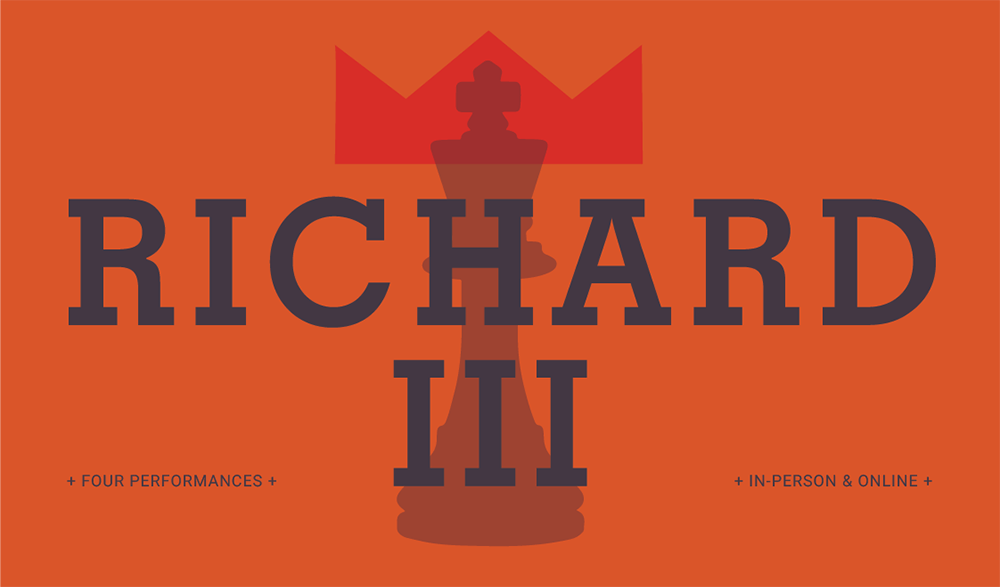
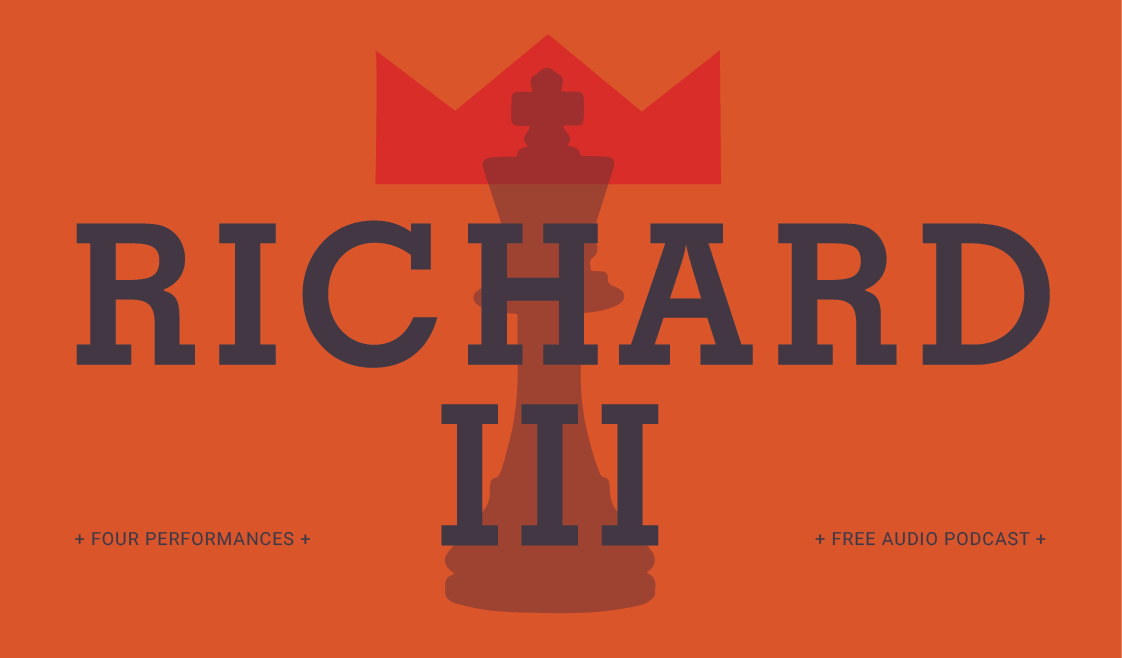
updated to only feature audio only podcast

diff --git a/index.html b/index.html
@@ -39,35 +39,24 @@
     <div class="container">
       <section class="schedule">
         <div class="row">
-            <h1 class="overview six offset-by-three columns">We will be presenting William Shakespeare's Richard III in four parts, both live in-person and online. See the calendar below for live show dates as well as links to stream them online when they're available.
+            <h1 class="overview six offset-by-three columns">We will be presenting William Shakespeare's Richard III as an audio podcast in four parts. See below for the times that they will be available, and stream them directly from this site!
             </h1>
           <ul>
             <li class="six offset-by-three columns">
               <h2 class="show-title">Introduction and Act I</h2>
-              <p class="live-info"><span class="bold-roboto">Live:</span> Friday, Oct. 9, 7:30pm, Belk Theatre</p>
-              <p class="online-info"><span class="bold-roboto">Online:</span> Monday Oct. 12th</p>
-              <a class="button button-primary">Watch Online Now</a>
+              <a class="button">Listen here for free 10/12/20</a>
             </li>
             <li class="six offset-by-three columns">
               <h2 class="show-title">Acts II and III</h2>
-              <p class="live-info"><span class="bold-roboto">Live:</span> Friday, Oct. 16th, 7:30pm, Belk Theatre</p>
-              <p class="online-info"><span class="bold-roboto">Online:</span> Monday Oct. 19th</p>
-              <a class="button button-primary">Purchase live tickets here</a>
-              <a class="button">Watch online for free 10/19/20</a>
+              <a class="button">Listen here for free 10/19/20</a>
             </li>
             <li class="six offset-by-three columns">
               <h2 class="show-title">Act IV</h2>
-              <p class="live-info"><span class="bold-roboto">Live:</span> Friday, Oct. 23rd, 7:30pm, Belk Theatre</p>
-              <p class="online-info"><span class="bold-roboto">Online:</span> Monday Oct. 26th</p>
-              <a class="button button-primary">Purchase live tickets here</a>
-              <a class="button">Watch online for free 10/26/20</a>
+              <a class="button">Listen here for free 10/26/20</a>
             </li>
             <li class="six offset-by-three columns">
               <h2 class="show-title">Act V and Closing</h2>
-              <p class="live-info"><span class="bold-roboto">Live:</span> Friday, Oct. 30th, 7:30pm, Belk Theatre</p>
-              <p class="online-info"><span class="bold-roboto">Online:</span> Monday, Nov. 2nd</p>
-              <a class="button button-primary">Purchase live tickets here</a>
-              <a class="button">Watch online for free 11/02/20</a>
+              <a class="button">Listen here for free 11/02/20</a>
             </li>
           </ul>
         </div>
@@ -77,7 +66,7 @@
   <footer>
     <div class="container">
       <div class="row">
-        <p class="six offset-by-three columns">Visit <a href="http://www.schoolofthearts.com" target="_blank">schoolofthearts.com</a> for more information, and follow us on social media for the latest updates and schedule changes. If you would like to purchase tickets over the phone, please call our box office at 864-231-2080</p>
+        <p class="five offset-by-three columns">Visit <a href="http://www.schoolofthearts.com" target="_blank">schoolofthearts.com</a> for more information, and follow us on social media for the latest updates and schedule changes.</p>
         <a  class="scsa-logo" href="http://www.schoolofthearts.com" target="_blank"><img class="two offset-by-three columns" src="images/SCSAlogo-white.png" /></a>
       </div>
     </div>
